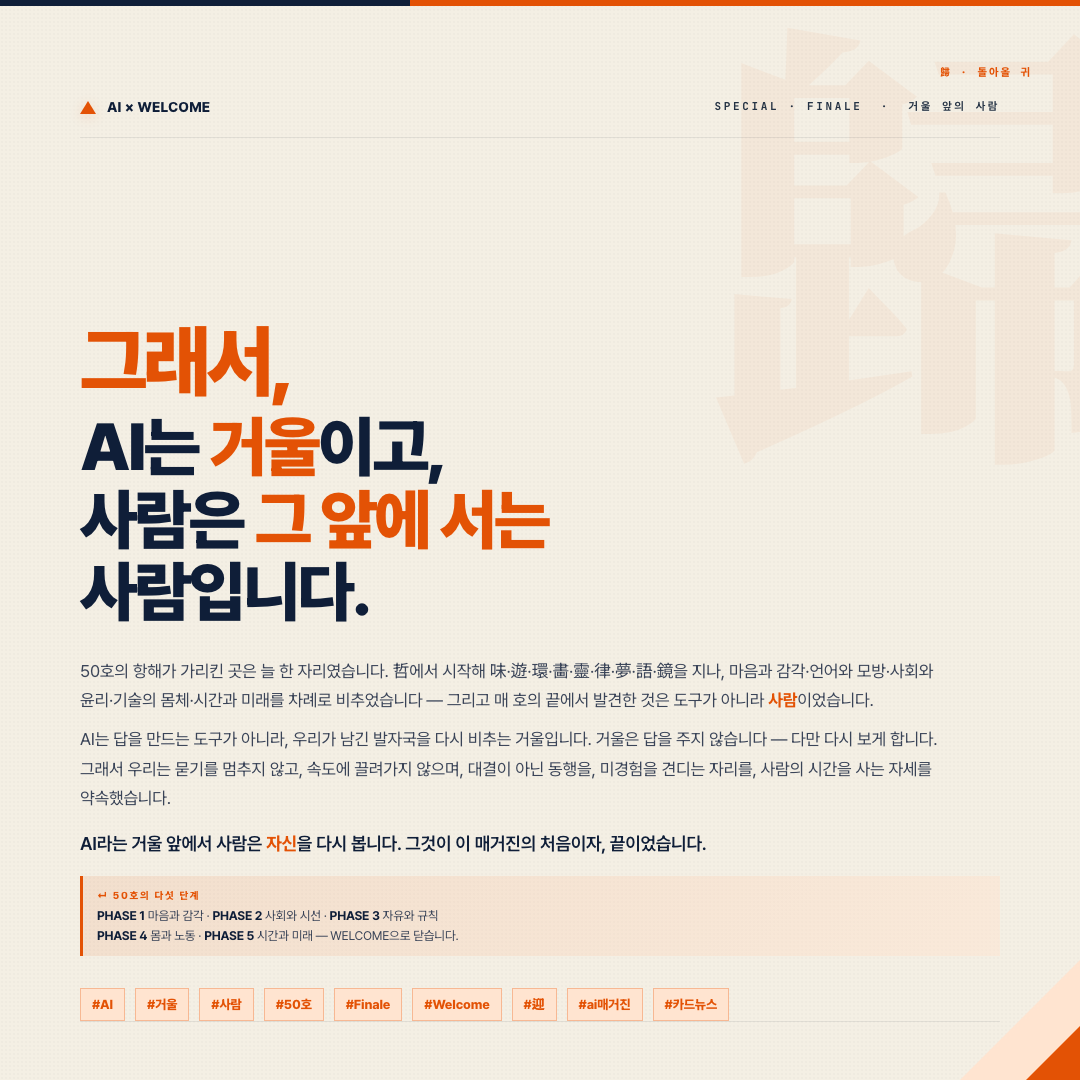
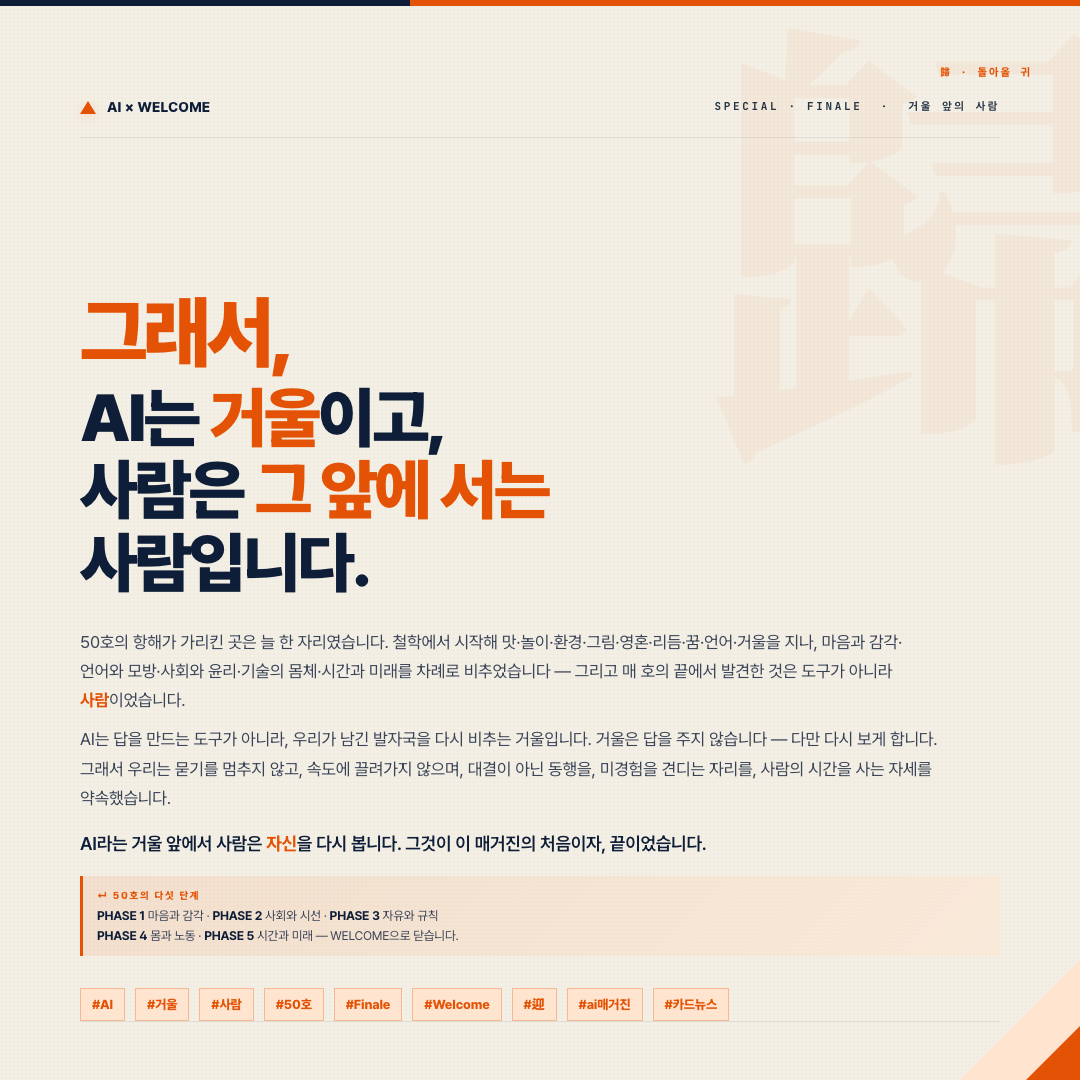
fix(51-welcome): 커버·아우트로 본문 한자 한글로 풀어쓰기
哲→철학, 始作→시작, 他→상대성, 豫→예언
味·遊·環·畵·靈·律·夢·語·鏡 → 맛·놀이·환경·그림·영혼·리듬·꿈·언어·거울

Changed region(s): [[0.0611, 0.275, 0.8556, 0.6722]]

diff --git a/51-cards-welcome/01-cover.html b/51-cards-welcome/01-cover.html
@@ -27,7 +27,7 @@
     </h1>
 
     <p class="lead">
-      50개의 시리즈, 한 가지 질문. 哲(Philosophy)에서 始作해 他(Relativity)·豫(Prophecy)에 이르기까지 &mdash;<br />
+      50개의 시리즈, 한 가지 질문. 철학에서 시작해 상대성·예언에 이르기까지 &mdash;<br />
       모든 호가 결국 <b>사람의 자리</b>를 가리켰습니다. 이번 SPECIAL FINALE은 그 50번의 항해를 한 장으로 접습니다.
     </p>
 
@@ -42,7 +42,7 @@
     <div style="margin-top:26px; display:grid; grid-template-columns:1fr 1fr 1fr; gap:14px;">
       <div style="padding:14px 16px; border-top:3px solid var(--navy); background:linear-gradient(180deg, rgba(255,255,255,0.7), rgba(255,255,255,0.3));">
         <div style="font-family:var(--f-mono); font-size:10px; letter-spacing:0.2em; color:var(--navy); font-weight:700;">50 ISSUES</div>
-        <div style="font-size:13.5px; font-weight:700; color:var(--navy); margin-top:4px;">哲에서 豫까지<br />&mdash; 50번의 항해</div>
+        <div style="font-size:13.5px; font-weight:700; color:var(--navy); margin-top:4px;">철학에서 예언까지<br />&mdash; 50번의 항해</div>
       </div>
       <div style="padding:14px 16px; border-top:3px solid var(--brand); background:linear-gradient(180deg, var(--brand-soft), rgba(255,255,255,0.3));">
         <div style="font-family:var(--f-mono); font-size:10px; letter-spacing:0.2em; color:var(--brand); font-weight:700;">ONE QUESTION</div>

diff --git a/51-cards-welcome/12-outro.html b/51-cards-welcome/12-outro.html
@@ -23,7 +23,7 @@
       AI는 <em>거울</em>이고,<br />사람은 <em>그 앞에 서는</em><br />사람입니다.
     </h1>
 
-    <p class="closing">50호의 항해가 가리킨 곳은 늘 한 자리였습니다. 哲에서 시작해 味·遊·環·畵·靈·律·夢·語·鏡을 지나, 마음과 감각·언어와 모방·사회와 윤리·기술의 몸체·시간과 미래를 차례로 비추었습니다 &mdash; 그리고 매 호의 끝에서 발견한 것은 도구가 아니라 <em>사람</em>이었습니다.</p>
+    <p class="closing">50호의 항해가 가리킨 곳은 늘 한 자리였습니다. 철학에서 시작해 맛·놀이·환경·그림·영혼·리듬·꿈·언어·거울을 지나, 마음과 감각·언어와 모방·사회와 윤리·기술의 몸체·시간과 미래를 차례로 비추었습니다 &mdash; 그리고 매 호의 끝에서 발견한 것은 도구가 아니라 <em>사람</em>이었습니다.</p>
 
     <p class="closing" style="margin-top:10px;">AI는 답을 만드는 도구가 아니라, 우리가 남긴 발자국을 다시 비추는 거울입니다. 거울은 답을 주지 않습니다 &mdash; 다만 다시 보게 합니다. 그래서 우리는 묻기를 멈추지 않고, 속도에 끌려가지 않으며, 대결이 아닌 동행을, 미경험을 견디는 자리를, 사람의 시간을 사는 자세를 약속했습니다.</p>
 
